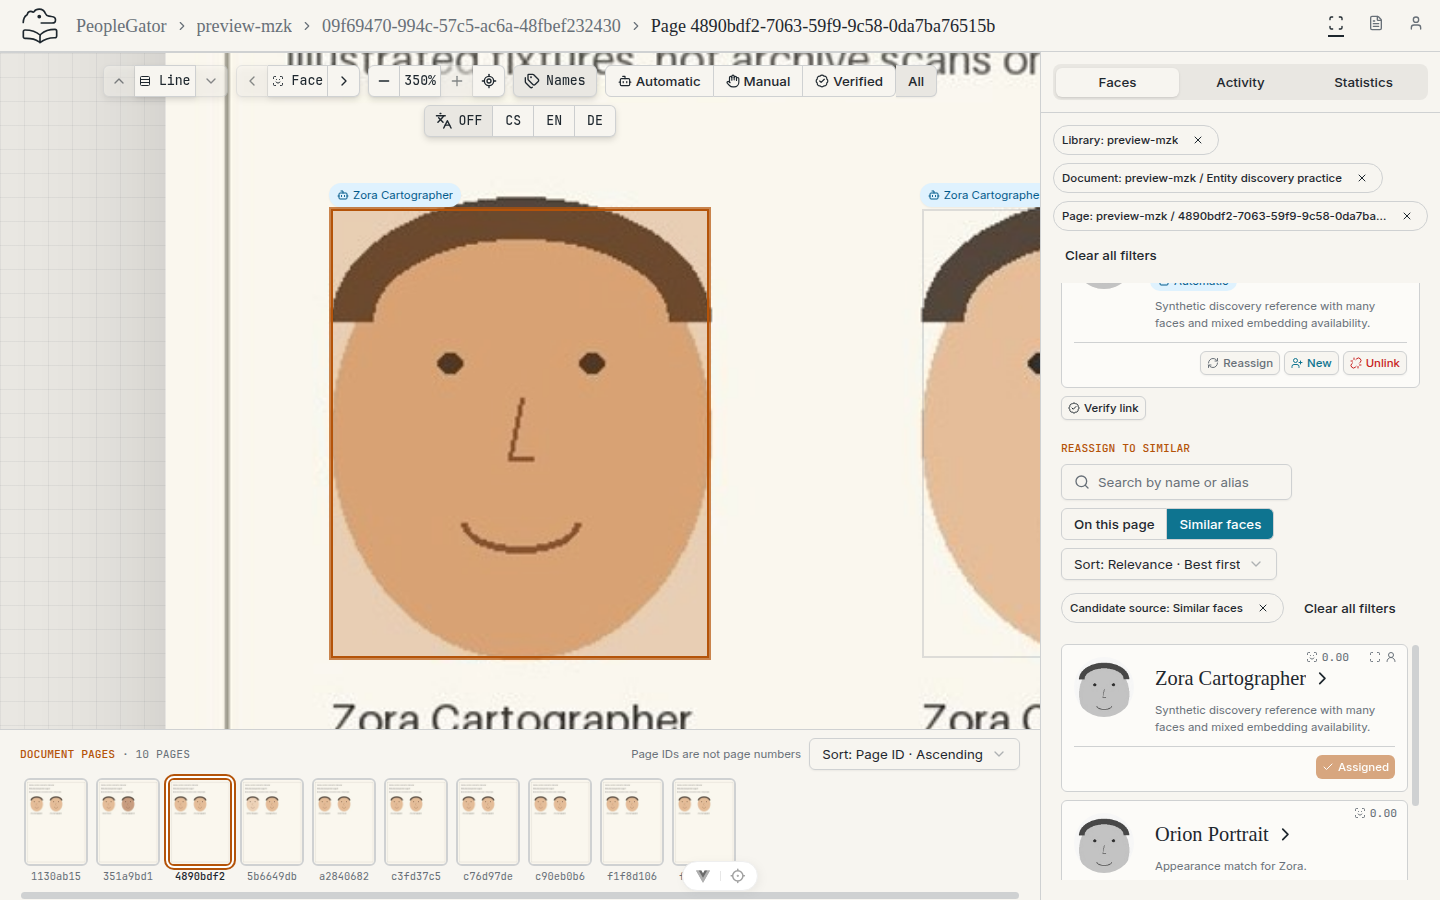
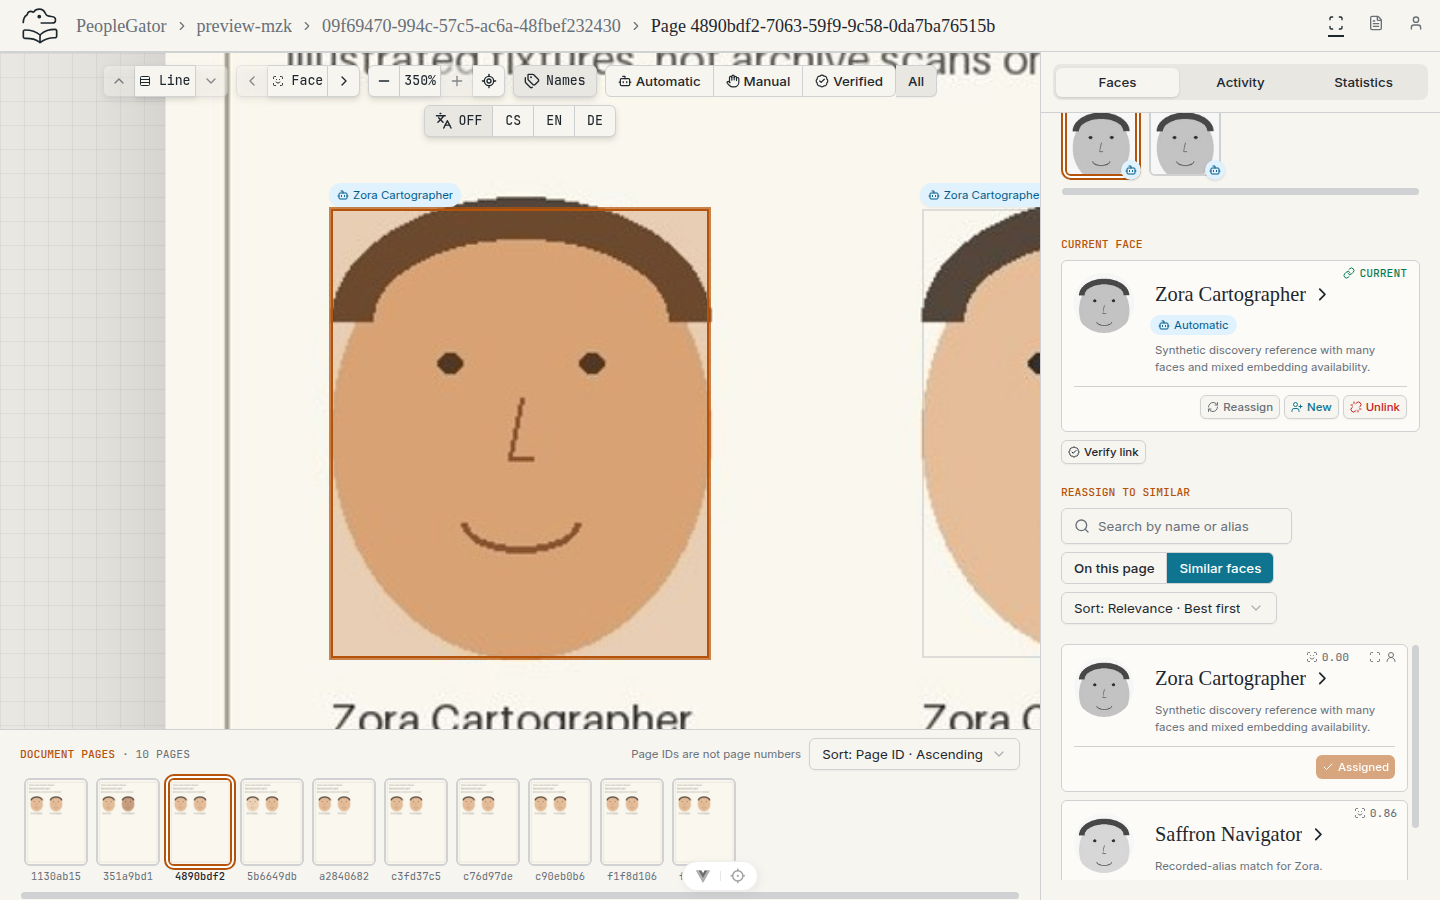
fix: remove duplicate filter badge groups from the scan sidebar (#67)

diff --git a/people-gator-app/src/__tests__/App.spec.ts b/people-gator-app/src/__tests__/App.spec.ts
@@ -228,17 +228,22 @@ describe('App', () => {
     wrapper.unmount()
   })
 
-  it('shows and removes shared scope in the page workspace without losing selection', async () => {
-    await router.push('/libraries/library/documents/document/pages/page?library=preview-mzk&link_state=manual&person=face-a')
+  it('keeps scan scope and candidate mode without removable sidebar filter badges', async () => {
+    await router.push('/libraries/library/documents/document/pages/page?library=preview-mzk&link_state=manual&person=face-a&candidate_mode=face')
     const wrapper = mount(App, { global: { plugins: [router, VueQueryPlugin] } })
     await flushPromises()
     const sidebar = wrapper.get('.workspace-sidebar')
-    await sidebar.get('button[aria-label="Remove Library: preview-mzk"]').trigger('click')
-    await flushPromises()
-    expect(router.currentRoute.value.query.library).toBeUndefined()
-    expect(router.currentRoute.value.query.link_state).toEqual(['manual'])
+    expect(sidebar.find('[aria-label="Active filters"]').exists()).toBe(false)
+    expect(sidebar.find('button[aria-label="Remove Library: preview-mzk"]').exists()).toBe(false)
+    expect(sidebar.text()).not.toContain('Candidate source: Similar faces')
+    expect(sidebar.text()).not.toContain('Clear all filters')
+    expect(router.currentRoute.value.query.library).toBe('preview-mzk')
+    expect(router.currentRoute.value.query.link_state).toBe('manual')
     expect(router.currentRoute.value.query.person).toBe('face-a')
-    expect(sidebar.get('[aria-label="Active filters"]').text()).toContain('Link state: Manual')
+    expect(router.currentRoute.value.query.candidate_mode).toBe('face')
+    await sidebar.get('button[aria-label="Show filters"]').trigger('click')
+    await flushPromises()
+    expect(sidebar.find('[aria-label="Choose candidate source"]').exists()).toBe(true)
     wrapper.unmount()
   })
 

diff --git a/people-gator-app/src/views/DocumentPageView.vue b/people-gator-app/src/views/DocumentPageView.vue
@@ -1,8 +1,7 @@
 <script setup lang="ts">
-import SharedFilterTags from '@/components/custom/SharedFilterTags.vue'
 import PageActivityPanel from '@/components/custom/PageActivityPanel.vue'
 import { Tabs, TabsContent, TabsList, TabsTrigger } from '@/components/ui/tabs'
-import { useSharedFilters, hasSharedFilters, legacyFilterNotice } from '@/viewmodels/shared-filters'
+import { useSharedFilters, legacyFilterNotice } from '@/viewmodels/shared-filters'
 import { focusTransform, MINIMUM_ZOOM, MAXIMUM_ZOOM } from '@/viewmodels/document-focus'
 import Panzoom, { type PanzoomObject } from '@panzoom/panzoom'
 import { useDebounce } from '@vueuse/core'
@@ -633,10 +632,15 @@ onBeforeUnmount(() => {
         </TabsList>
       </div>
       <div
-        v-if="hasSharedFilters(evidence.filters.value) || evidence.error.value || legacyFilterNotice.length"
+        v-if="evidence.error.value || legacyFilterNotice.length"
         class="shrink-0 px-3 pb-3"
       >
-        <SharedFilterTags />
+        <p v-if="legacyFilterNotice.length" role="status" class="mt-2 text-sm">
+          Removed unsupported filters from this link: {{ legacyFilterNotice.join(', ') }}.
+        </p>
+        <p v-if="evidence.error.value" role="alert" class="mt-2 text-sm text-destructive">
+          {{ evidence.error.value }}
+        </p>
       </div>
       <TabsContent value="face" class="mt-0 flex min-h-0 flex-col overflow-y-auto">
         <FaceGallery

diff --git a/people-gator-app/src/components/custom/SimilarPeopleSearch.vue b/people-gator-app/src/components/custom/SimilarPeopleSearch.vue
@@ -1,8 +1,7 @@
 <script setup lang="ts">
 import type { AcceptableValue } from 'reka-ui'
-import { computed, ref } from 'vue'
+import { ref } from 'vue'
 import SearchFilterPanel from './SearchFilterPanel.vue'
-import ActiveFilters from './ActiveFilters.vue'
 
 import type { Face } from '@/viewmodels/document-workspace.types'
 import type { CandidateBrowseMode } from '@/viewmodels/similar-people'
@@ -34,11 +33,6 @@ function clear() {
 }
 
 defineExpose({ clear, focus })
-const active = computed(() =>
-  !query.value.trim() && resultMode.value === 'face'
-    ? [{ key: 'source', value: 'face', label: 'Candidate source: Similar faces' }]
-    : [],
-)
 </script>
 
 <template>
@@ -84,7 +78,6 @@ const active = computed(() =>
         size="sm"
       />
     </SearchFilterPanel>
-    <ActiveFilters :filters="active" @remove="resultMode = 'page'" @clear="resultMode = 'page'" />
     <p
       v-if="
         props.selectedFace &&

diff --git a/people-gator-api/src/people_gator_api/seeding/preview.py b/people-gator-api/src/people_gator_api/seeding/preview.py
@@ -504,6 +504,7 @@ async def seed_preview(database: Database, filesystem: Filesystem) -> SeedResult
         users={key: actor.user_id for key, actor in actors.items()},
         api_keys=registered_keys,
         filter_examples={
+            # Retained URL scope, global candidates, and no duplicate sidebar filter tags.
             "global-discovery-scan": (
                 f"/libraries/{discovery_document.library}/documents/{discovery_document.document_id}"
                 f"/pages/{discovery_page.page_id}?" + urlencode({

diff --git a/docs/evidence/issue67/README.md b/docs/evidence/issue67/README.md
@@ -3,8 +3,8 @@
 Captured from the running issue branch with synthetic seed data, local PostgreSQL
 on port 55467, API on 8067 and Vite on 5167. Desktop viewport: 1440 × 900 CSS
 pixels. Mobile viewport: 390 × 844 CSS pixels. Discover images are full-page
-captures; scan images show the viewport after scrolling its assignment pane to
-the global candidate. Captures precede disposable assignment/merge checks.
+captures; scan images show the viewport at the panel top or scrolled to the
+global candidate. Discover captures precede disposable assignment/merge checks.
 
 - `discover-desktop.png` and `discover-mobile.png`: `global-discovery` seed link,
   with local library/document/page, modifier/key and Verified filters retained.
@@ -12,8 +12,12 @@ the global candidate. Captures precede disposable assignment/merge checks.
   `preview-nlk` and Orion Portrait remain visible.
 - `discover-mobile-expanded.png`: expanded Discovery search settings, activated
   using Enter on the mobile filter toggle; collapse retains the selected inputs.
-- `scan-desktop.png` and `scan-mobile.png`: `global-discovery-scan`, showing Orion
-  Portrait as a global assignment candidate while local source tags remain.
+- `scan-workspace-desktop.png` and `scan-workspace-mobile.png`: the revised
+  right panel omits the shared workspace badges below the tabs.
+- `scan-desktop.png` and `scan-mobile.png`: the revised candidate list shows
+  Saffron Navigator with both removable badge groups omitted. Source filters
+  remain in the URL and the candidate-source selector remains available. These
+  captures use the retained synthetic data after the assignment/merge checks.
 
 Browser checks exercised both candidate collections, responsive overflow, tabs,
 reload, candidate navigation and Back, preserving the workspace query. API request

diff --git a/docs/SEARCH_FILTERS.md b/docs/SEARCH_FILTERS.md
@@ -328,6 +328,9 @@ tags and query keys. Test actual AND/OR results, same-link restrictions, own-rec
 modification, unknown metadata and cursor reset. Extend the synthetic preview and
 its preservation tests; follow [AGENTS.md](../AGENTS.md).
 
-The scan editor's face-similarity candidate mode also searches globally. Its
+The scan editor's right panel omits shared workspace badges and the removable
+candidate-source badge. The candidate-source control still switches between
+page and similar-face results, and inherited workspace criteria stay in the URL.
+Its face-similarity candidate mode also searches globally. Its
 ordinary text candidate lookup continues to apply explicitly selected shared
 criteria, and page mode continues to show the current page's identities.

diff --git a/people-gator-api/docs/PREVIEW-SEEDING.md b/people-gator-api/docs/PREVIEW-SEEDING.md
@@ -672,6 +672,9 @@ normal API authorization. No optional face-scope control is introduced.
 The `global-discovery-scan` link opens the reference page in face-similarity
 candidate mode with local source filters retained. Orion Portrait remains a
 global assignment candidate; ordinary text lookup still uses shared criteria.
+The right panel omits workspace filter badges and the removable candidate-source
+badge. Use the candidate-source control to switch between the page and similar
+faces; inherited workspace criteria remain in the URL.
 
 The additive document/page and two faces have new stable keys and generated local
 media, reusing the existing reference model and duplicate identity. Reruns preserve
